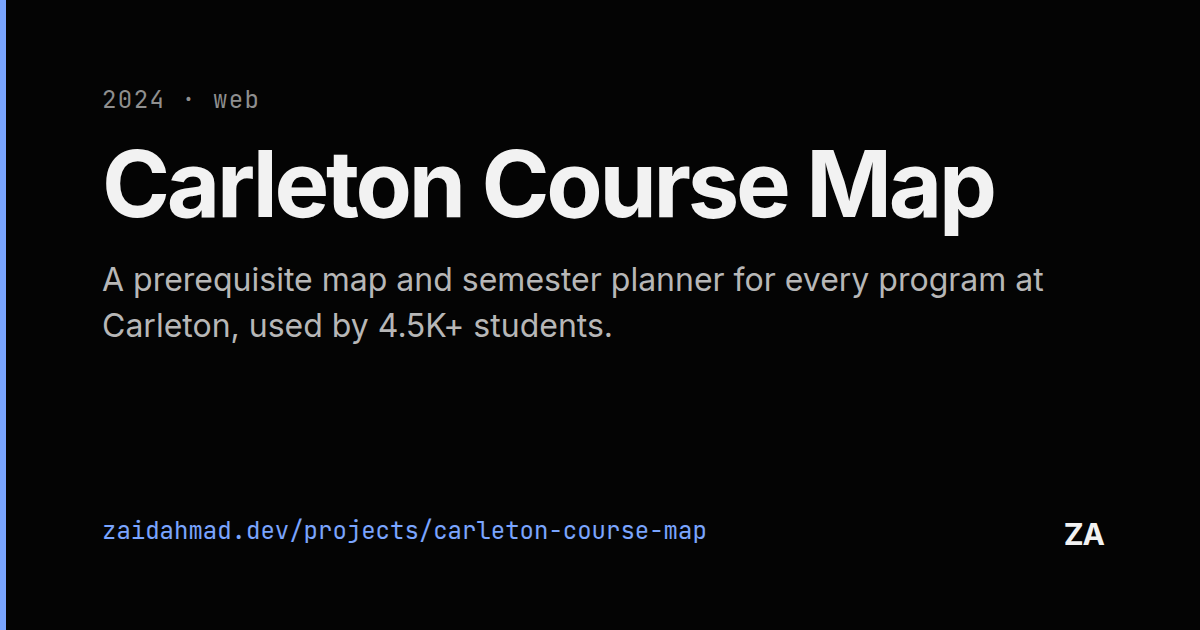
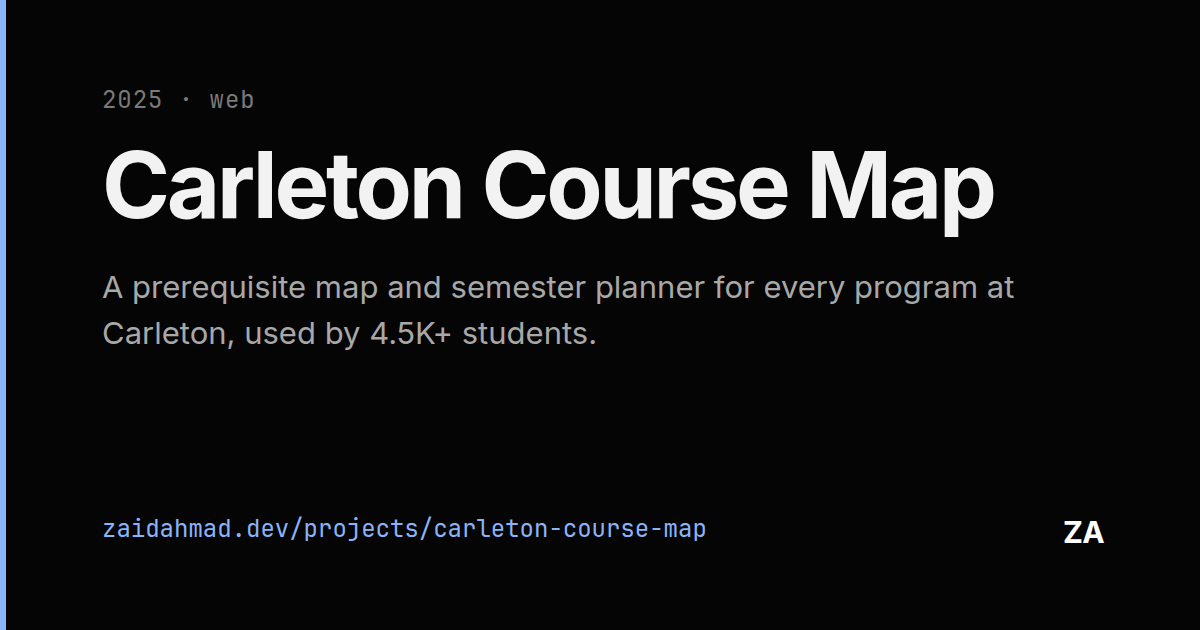
Carleton Course Map: 2025, live tag, right arrow

diff --git a/index.html b/index.html
@@ -195,14 +195,15 @@
               <div class="proj-row-main">
                 <div class="proj-row-namerow">
                   <div class="proj-row-name">Carleton Course Map</div>
-                  <span class="proj-row-year">2024</span>
+                  <span class="proj-row-year">2025</span>
+                  <span class="proj-row-live" title="Live at carletoncoursemap.ca">live</span>
                 </div>
                 <p class="proj-row-hook">A prerequisite map and drag-and-drop semester planner for every program at Carleton, with prerequisites as a DAG behind a REST API. 4.5K+ students use it.</p>
                 <div class="proj-row-pills">
                   <span>Python</span><span>FastAPI</span><span>PostgreSQL</span><span>Next.js</span><span>React Flow</span>
                 </div>
               </div>
-              <span class="proj-row-arrow" aria-hidden="true">&#8599;</span>
+              <span class="proj-row-arrow" aria-hidden="true">&#8594;</span>
             </a>
           </li>
 

diff --git a/projects/carleton-course-map.html b/projects/carleton-course-map.html
@@ -43,7 +43,7 @@
 
     <header class="pp-header">
       <div class="pp-header-kicker">
-        <span>2024</span>
+        <span>2025</span>
         <span class="pp-sep" aria-hidden="true">·</span>
         <span>web &middot; fullstack</span>
       </div>
